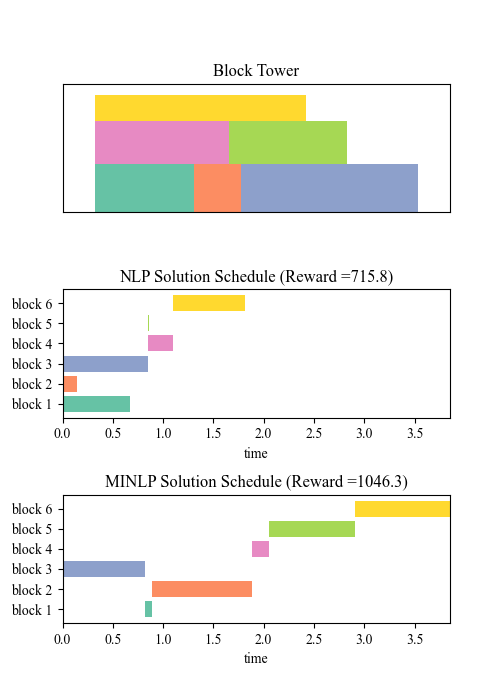
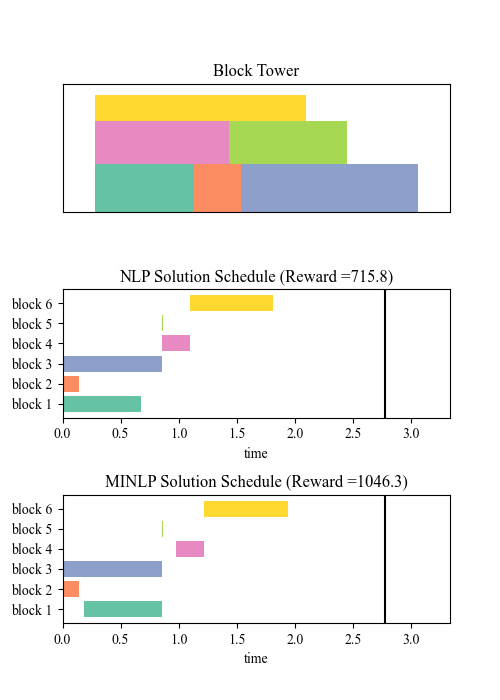
modified graphing

diff --git a/src/draw_block_figure.py b/src/draw_block_figure.py
@@ -3,12 +3,12 @@ from draw_construction import graph_tower_image_two
 nlp_starts = [0.0, 0.0, 0.0, 0.0, 0.8536826980789998, 0.8536826980789998, 1.0956782387262698, 1.8147185627304934]
 nlp_finish = [0.0, 0.6717770197766625, 0.14101377451231978, 0.8536826980789998, 1.0956782387262698, 0.8640373330993566, 1.8147185627304934, 2.6615992379290407]
 nlp_reward = 715.8
-minlp_starts = [0.0, 0.8249316742477938, 0.8935512594647435, 2.453592884421596e-14, 1.8878491794757792, 2.0494703007397597, 2.903604350580167, -3.0531133177191805e-14]
-minlp_finish = [0.0, 0.8935512604648466, 1.8878491813637144, 0.8249316762480703, 2.0494703007398676, 2.9036043534838427, 3.8519386215582667, 0.05077799493255952]
+minlp_starts = [0.0, 0.1819056783022931, 0.0, -4.418687638008123e-14, 0.9798791977284603, 0.8536826980789556, 1.2218747383757305, 1.9409150585921577]
+minlp_finish = [0.0, 0.8536826980789556, 0.14101377451231978, 0.8536826980789556, 1.2218747383757305, 0.8640373330993124, 1.940915062379954, 2.787795733790705]
 minlp_reward = 1046.3
 heights = [ 56, 50, 30]
 blocks = [ [[ 0, 108, 108], [ 108, 159, 51], [ 159, 350, 191]], [ [ 0, 146, 146], [ 146, 273, 127,]], [ [ 0, 229, 229]]]
 coalition_params = [ [ 0, 0, 0,], [ 30.857142857142854, 10.0, 0.30857142857142855,], [ 14.571428571428571, 10.0, 0.1457142857142857,], [ 54.57142857142857, 10.0, 0.5457142857142857,], [ 37.244897959183675, 10.0, 0.37244897959183676,], [ 32.39795918367347, 10.0, 0.3239795918367347,], [ 35.05102040816326, 10.0, 0.35051020408163264,], [ 0.0, 1.0, 0.0,],]
+makespan_constraint = 2.78
 
-
-graph_tower_image_two(nlp_starts, nlp_finish, minlp_starts, minlp_finish, nlp_reward, minlp_reward, heights, blocks, coalition_params, "nlp_flow_figure")
+graph_tower_image_two(nlp_starts, nlp_finish, minlp_starts, minlp_finish, nlp_reward, minlp_reward, makespan_constraint, heights, blocks, coalition_params, "nlp_flow_figure")

diff --git a/src/draw_construction.py b/src/draw_construction.py
@@ -164,8 +164,7 @@ def flows_to_taskrobots(flows, edges, numtasks, numrobots):
     node_flows = [ int(f*numrobots) for f in node_flows ]
     return node_flows
 
-def graph_tower_image_two(s1, f1, s2, f2, r1, r2, layer_heights, block_info, coalitions, fname):
-
+def graph_tower_image_two(s1, f1, s2, f2, r1, r2, makespan_constraint, layer_heights, block_info, coalitions, fname):
 
     def get_cmap(n, name='Set2'):
         '''Returns a function that maps each index in 0, 1, ..., n-1 to a distinct 
@@ -198,9 +197,11 @@ def graph_tower_image_two(s1, f1, s2, f2, r1, r2, layer_heights, block_info, coa
     for i,tasktime in enumerate(sftimes1):
         axs[1].barh(i,width=tasktime[1]-tasktime[0],left=tasktime[0], color=cmap(i))
 
+    axs[1].axvline(makespan_constraint, color='k')
+
     axs[1].set_yticks(range(len(sftimes1)))
     axs[1].set_yticklabels([f'block {i+1}' for i in range(len(sftimes1))])
-    axs[1].set_xlim(0, max(max(f1),max(f2)))
+    axs[1].set_xlim(0, makespan_constraint*1.2)
     axs[1].set_title("NLP Solution Schedule (Reward =" + str(r1) + ")")
     axs[1].set_xlabel("time")
 
@@ -209,9 +210,11 @@ def graph_tower_image_two(s1, f1, s2, f2, r1, r2, layer_heights, block_info, coa
     for i,tasktime in enumerate(sftimes2):
         axs[2].barh(i,width=tasktime[1]-tasktime[0],left=tasktime[0], color=cmap(i))
 
+    axs[2].axvline(makespan_constraint, color='k')
+
     axs[2].set_yticks(range(len(sftimes2)))
     axs[2].set_yticklabels([f'block {i+1}' for i in range(len(sftimes2))])
-    axs[2].set_xlim(0, max(max(f1),max(f2)))
+    axs[2].set_xlim(0, makespan_constraint*1.2)
     axs[2].set_title("MINLP Solution Schedule (Reward =" + str(r2) + ")")
     axs[2].set_xlabel("time")
 
